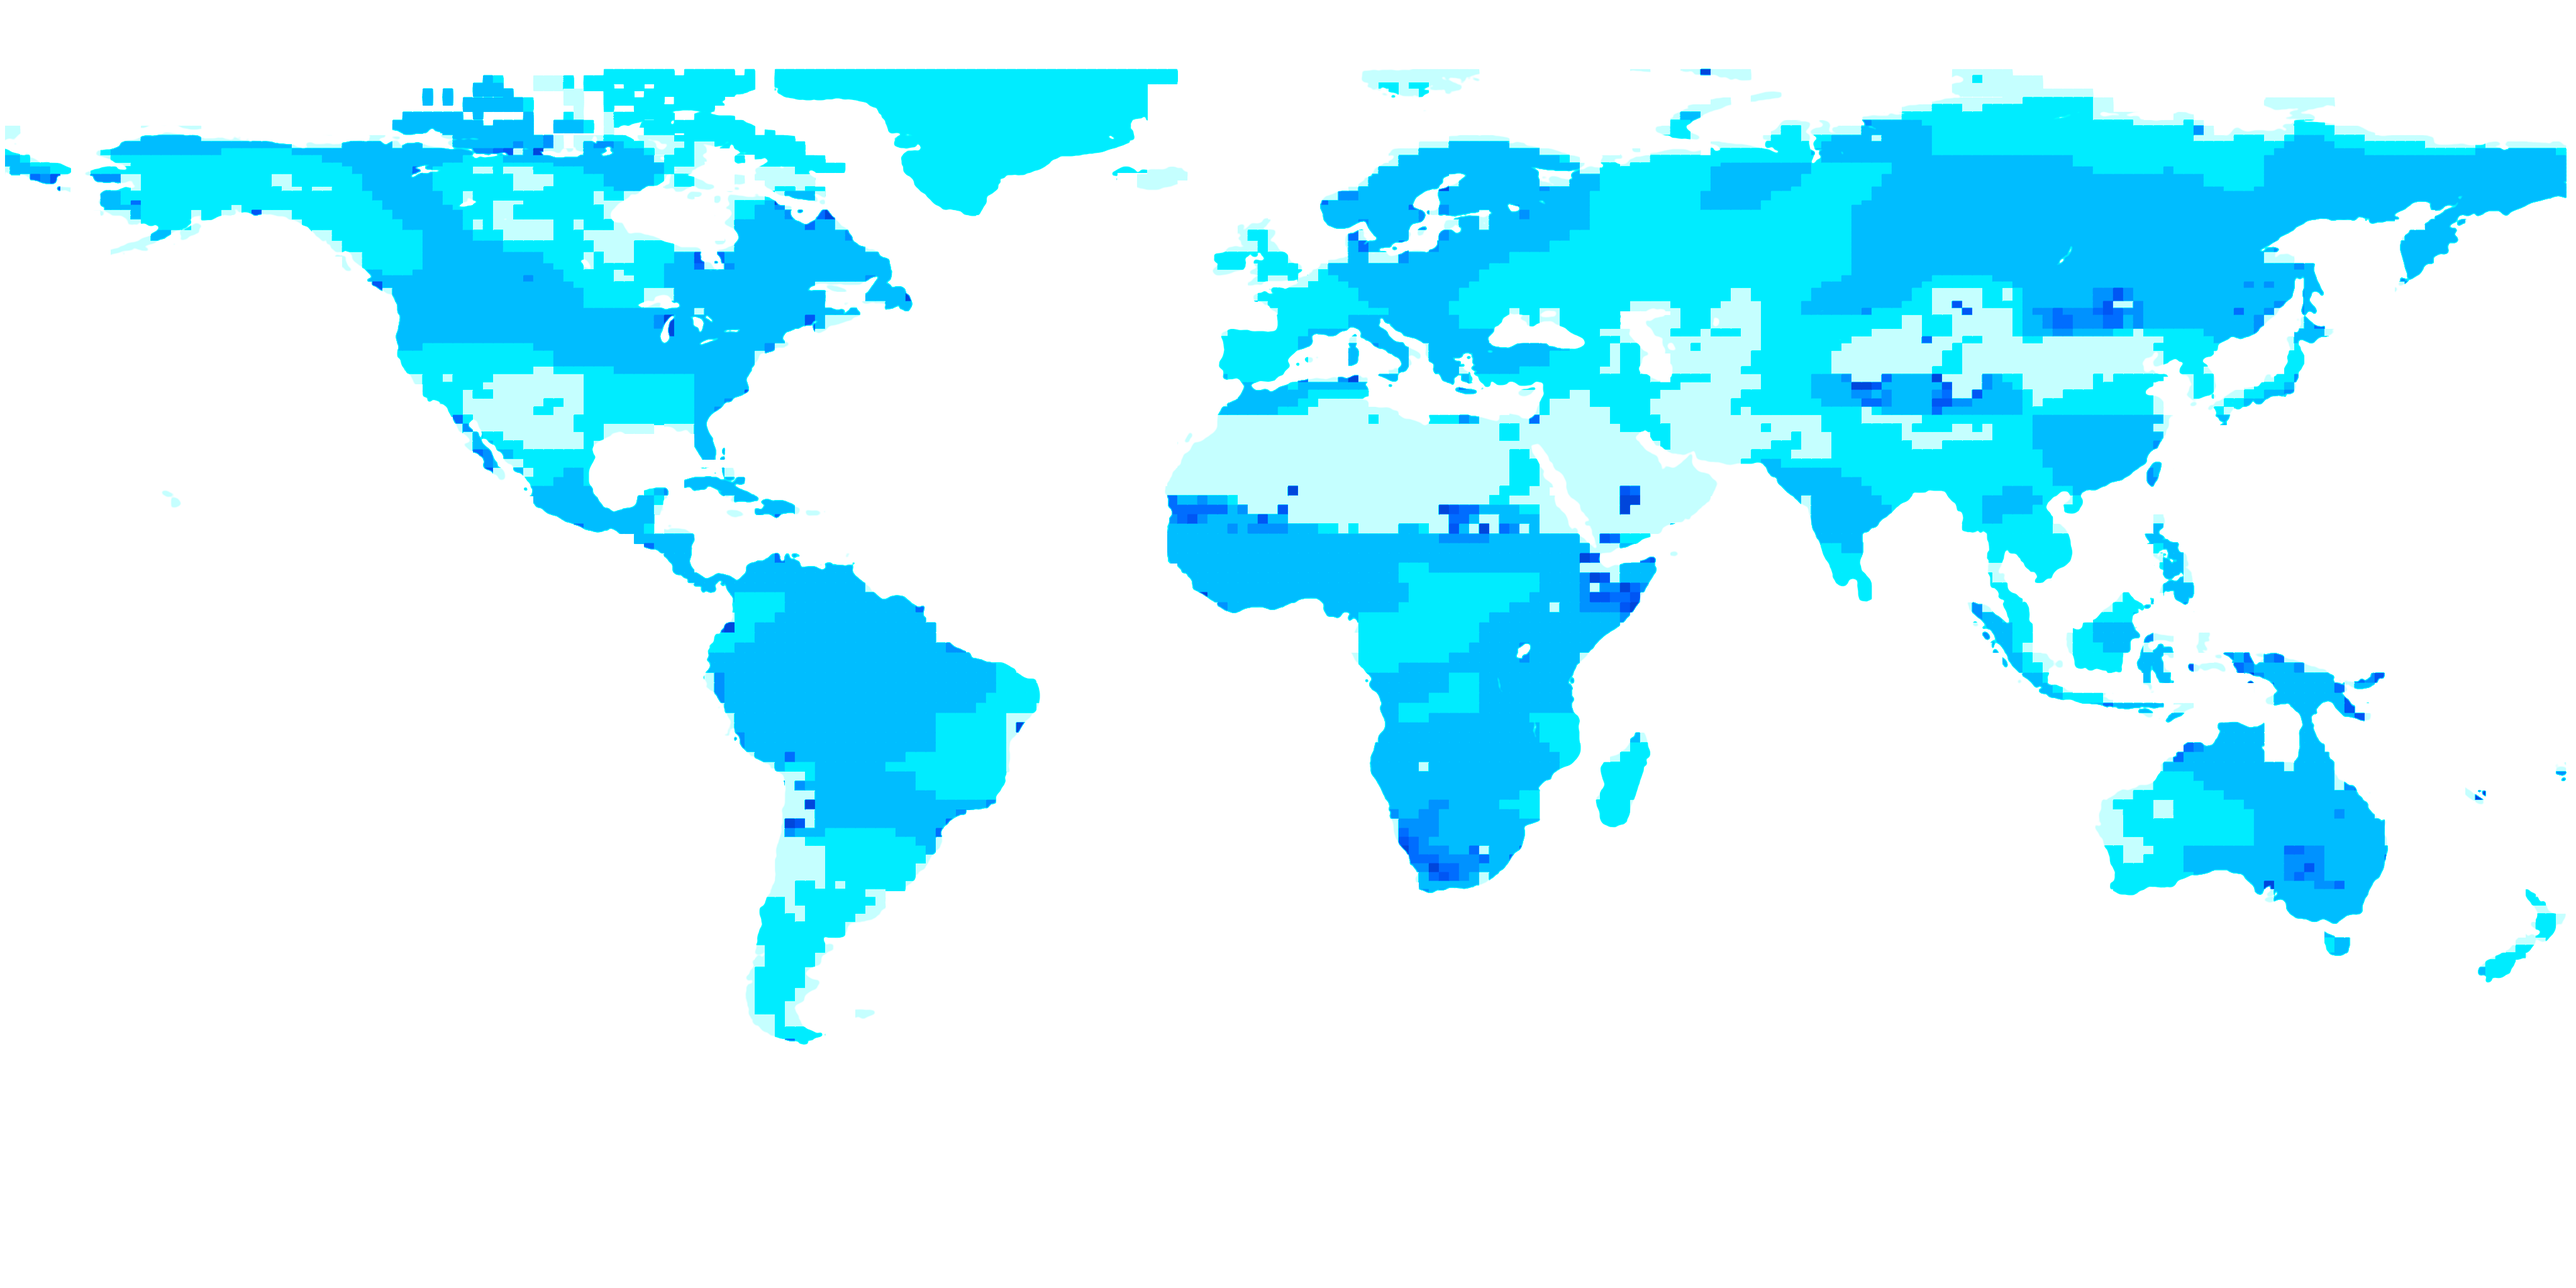
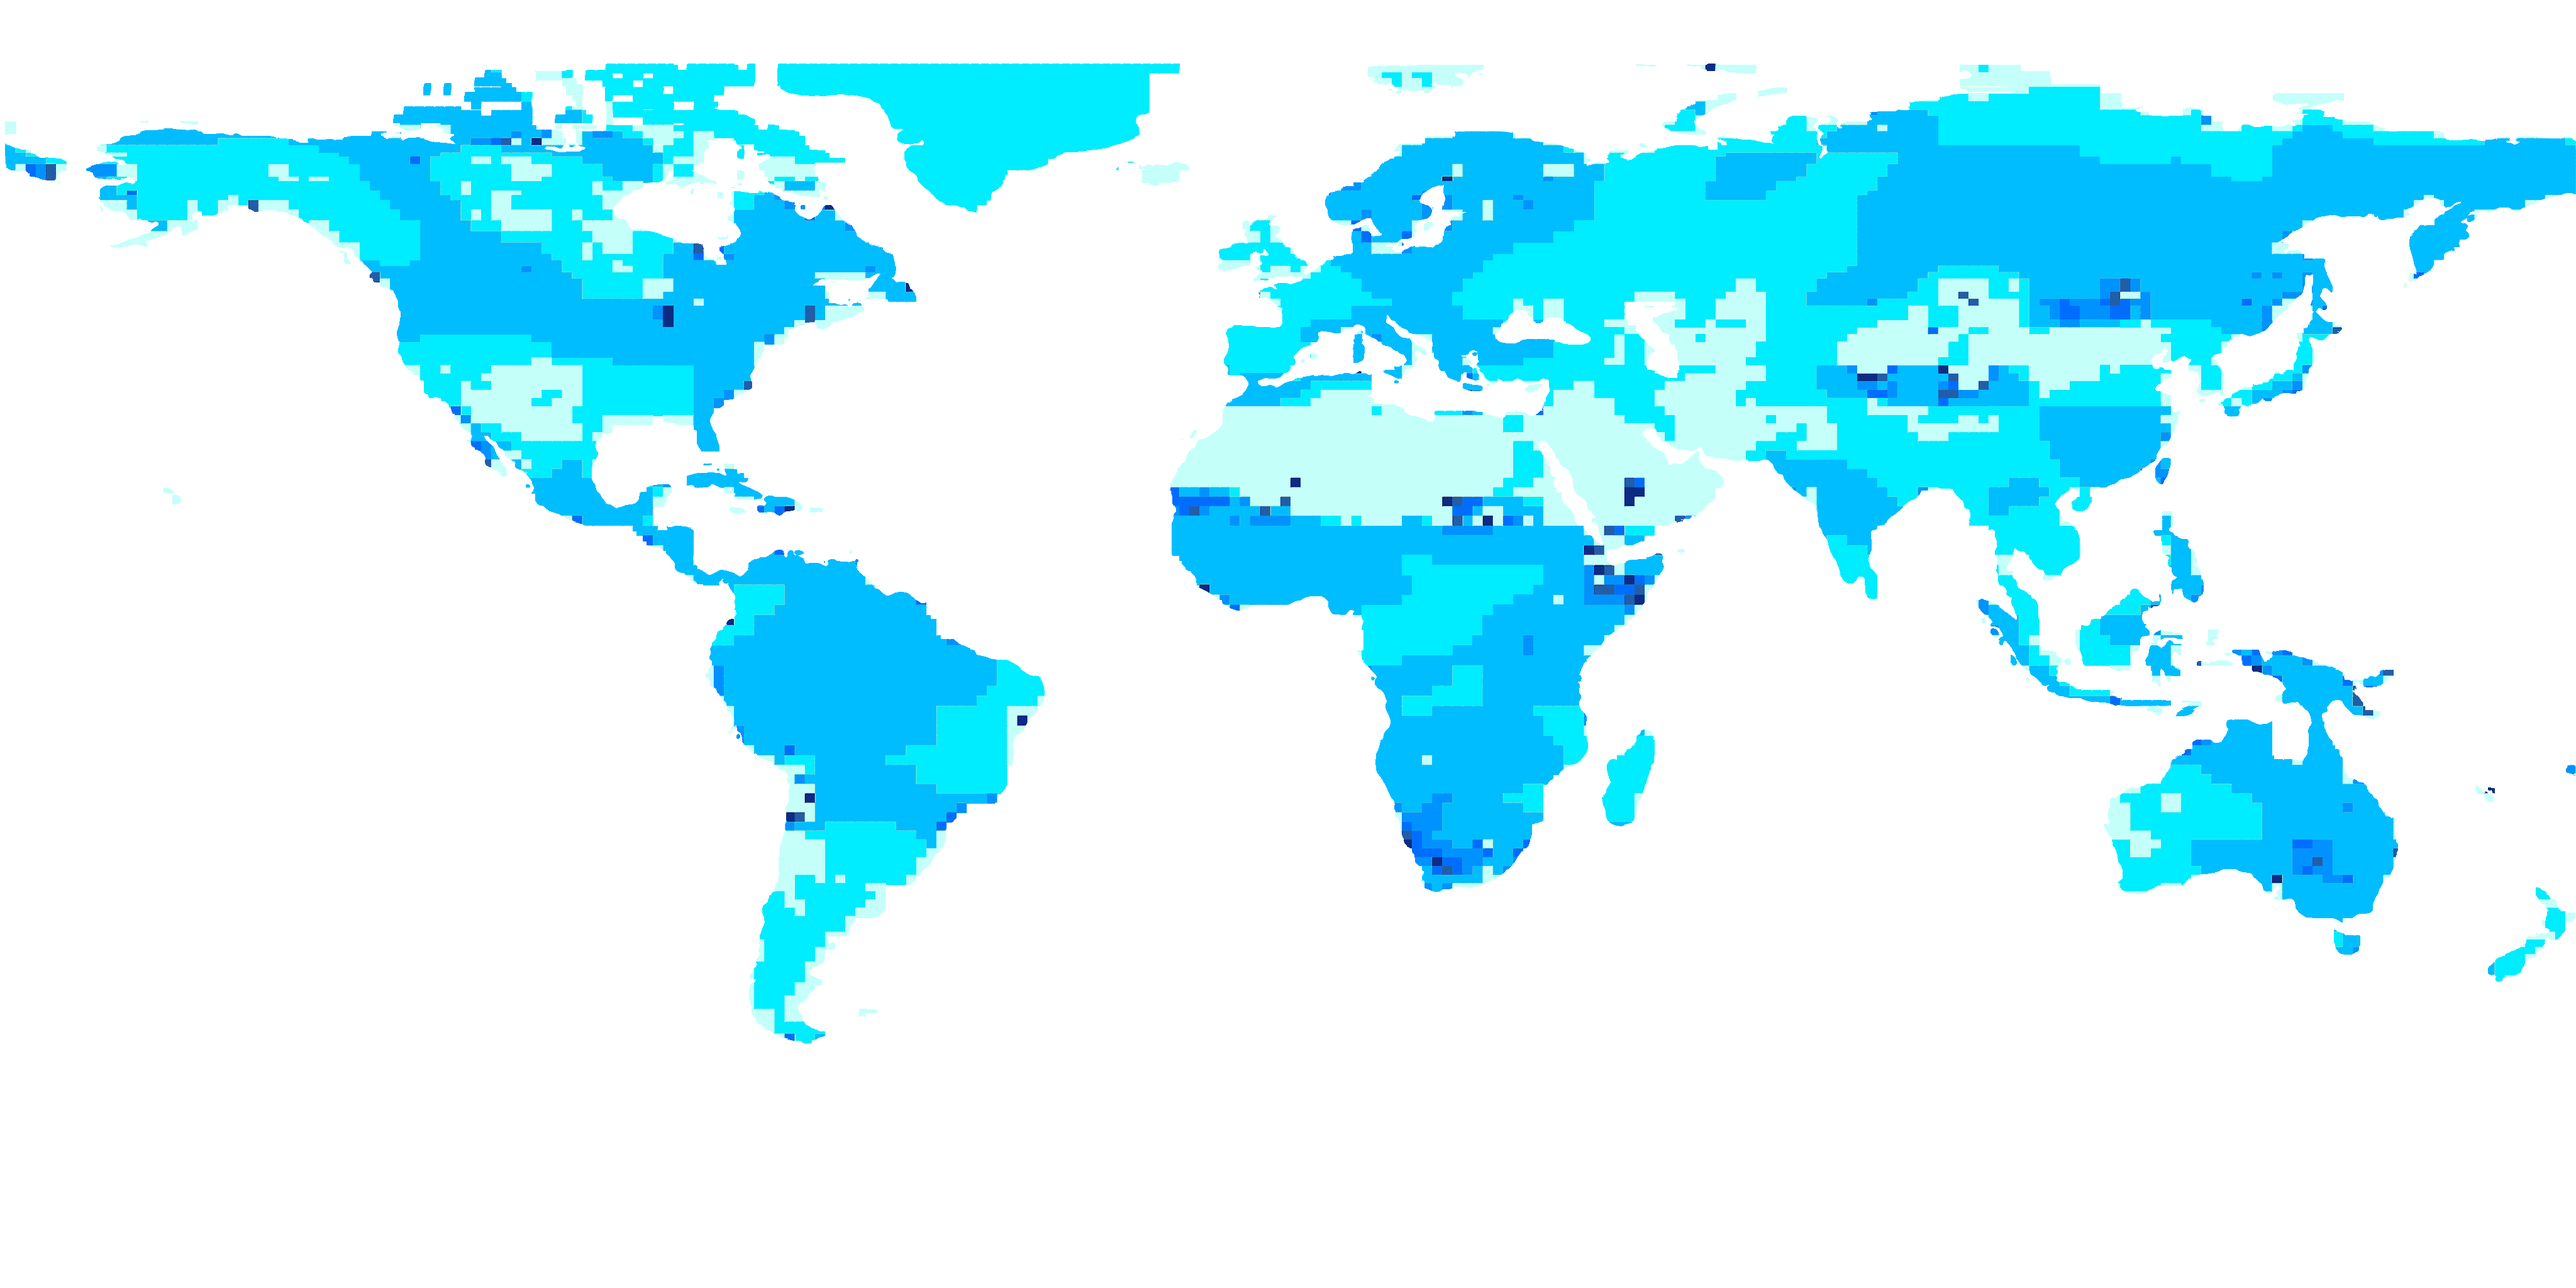
added current floods

diff --git a/src/styles/_planet-pulse.scss b/src/styles/_planet-pulse.scss
@@ -465,6 +465,18 @@
         filter: progid:DXImageTransform.Microsoft.gradient( startColorstr='#B362D8', endColorstr='#030206',GradientType=1 );
       }
 
+      &.floods:after {
+        /* background: linear-gradient(90deg, #9c2d42, #fef6a5); */
+        background: #2c2da1;
+        background: -moz-linear-gradient(left, #FFFFCC 0%, #A1DAB4 25%, #41B6C4 50%, #2C7FB8 75%, #253494 100%);
+        background: -webkit-gradient(linear, left top, right top, color-stop(0%,#FFFFCC), color-stop(25%,#A1DAB4), color-stop(50%,#41B6C4), color-stop(75%,#2C7FB8), color-stop(100%,#253494));
+        background: -webkit-linear-gradient(left, #FFFFCC 0%,#A1DAB4 25%,#41B6C4 50%,#2C7FB8 75%,#253494 100%);
+        background: -o-linear-gradient(left, #FFFFCC 0%,#A1DAB4 25%,#41B6C4 50%,#2C7FB8 75%,#253494 100%);
+        background: -ms-linear-gradient(left, #FFFFCC 0%,#A1DAB4 25%,#41B6C4 50%,#2C7FB8 75%,#253494 100%);
+        background: linear-gradient(to right, #FFFFCC 0%,#A1DAB4 25%,#41B6C4 50%,#2C7FB8 75%,#253494 100%);
+        filter: progid:DXImageTransform.Microsoft.gradient( startColorstr='#FFFFCC', endColorstr='#253494',GradientType=1 );
+      }
+
     }
   }
 

diff --git a/src/scripts/views/globe.js b/src/scripts/views/globe.js
@@ -40,7 +40,8 @@ define([
         grace: document.getElementById('layer7').src,
         epidemic: document.getElementById('layer9').src,
         protests: document.getElementById('layer8').src,
-        forma: document.getElementById('layer10').src
+        forma: document.getElementById('layer10').src,
+        floods: document.getElementById('layer11').src
       };
 
       this.legends = legends;
@@ -193,6 +194,12 @@ define([
         case 'protests':
           this.globe.sphere.material.map = THREE.ImageUtils.loadTexture(this.basemaps.dark);
           this.globe.createLayer(this.currentVis, this.layers.protests);
+          this.setLegend(vis);
+          this.updateLayersList();
+          break;
+        case 'current-floods':
+          this.globe.sphere.material.map = THREE.ImageUtils.loadTexture(this.basemaps.dark);
+          this.globe.createLayer(this.currentVis, this.layers.floods);
           this.setLegend(vis);
           this.updateLayersList();
           break;

diff --git a/src/scripts/helpers/legends.js b/src/scripts/helpers/legends.js
@@ -132,6 +132,14 @@ define([], function() {
       legend: ['#260058','#62009f','#ce0eb8','#e5381b','#f16a00','#ffc700', '#feeb3c'],
       min: '-40ºC',
       max: '40ºC'
+    },
+    'current-floods' : {
+      title: 'Current floods',
+      type: 'choropleth',
+      classname: 'floods',
+      legend: ['#FFFFCC','#A1DAB4','#41B6C4','#2C7FB8', '#253494'],
+      min: 'less',
+      max: 'more'
     }
   };
   return legends;
